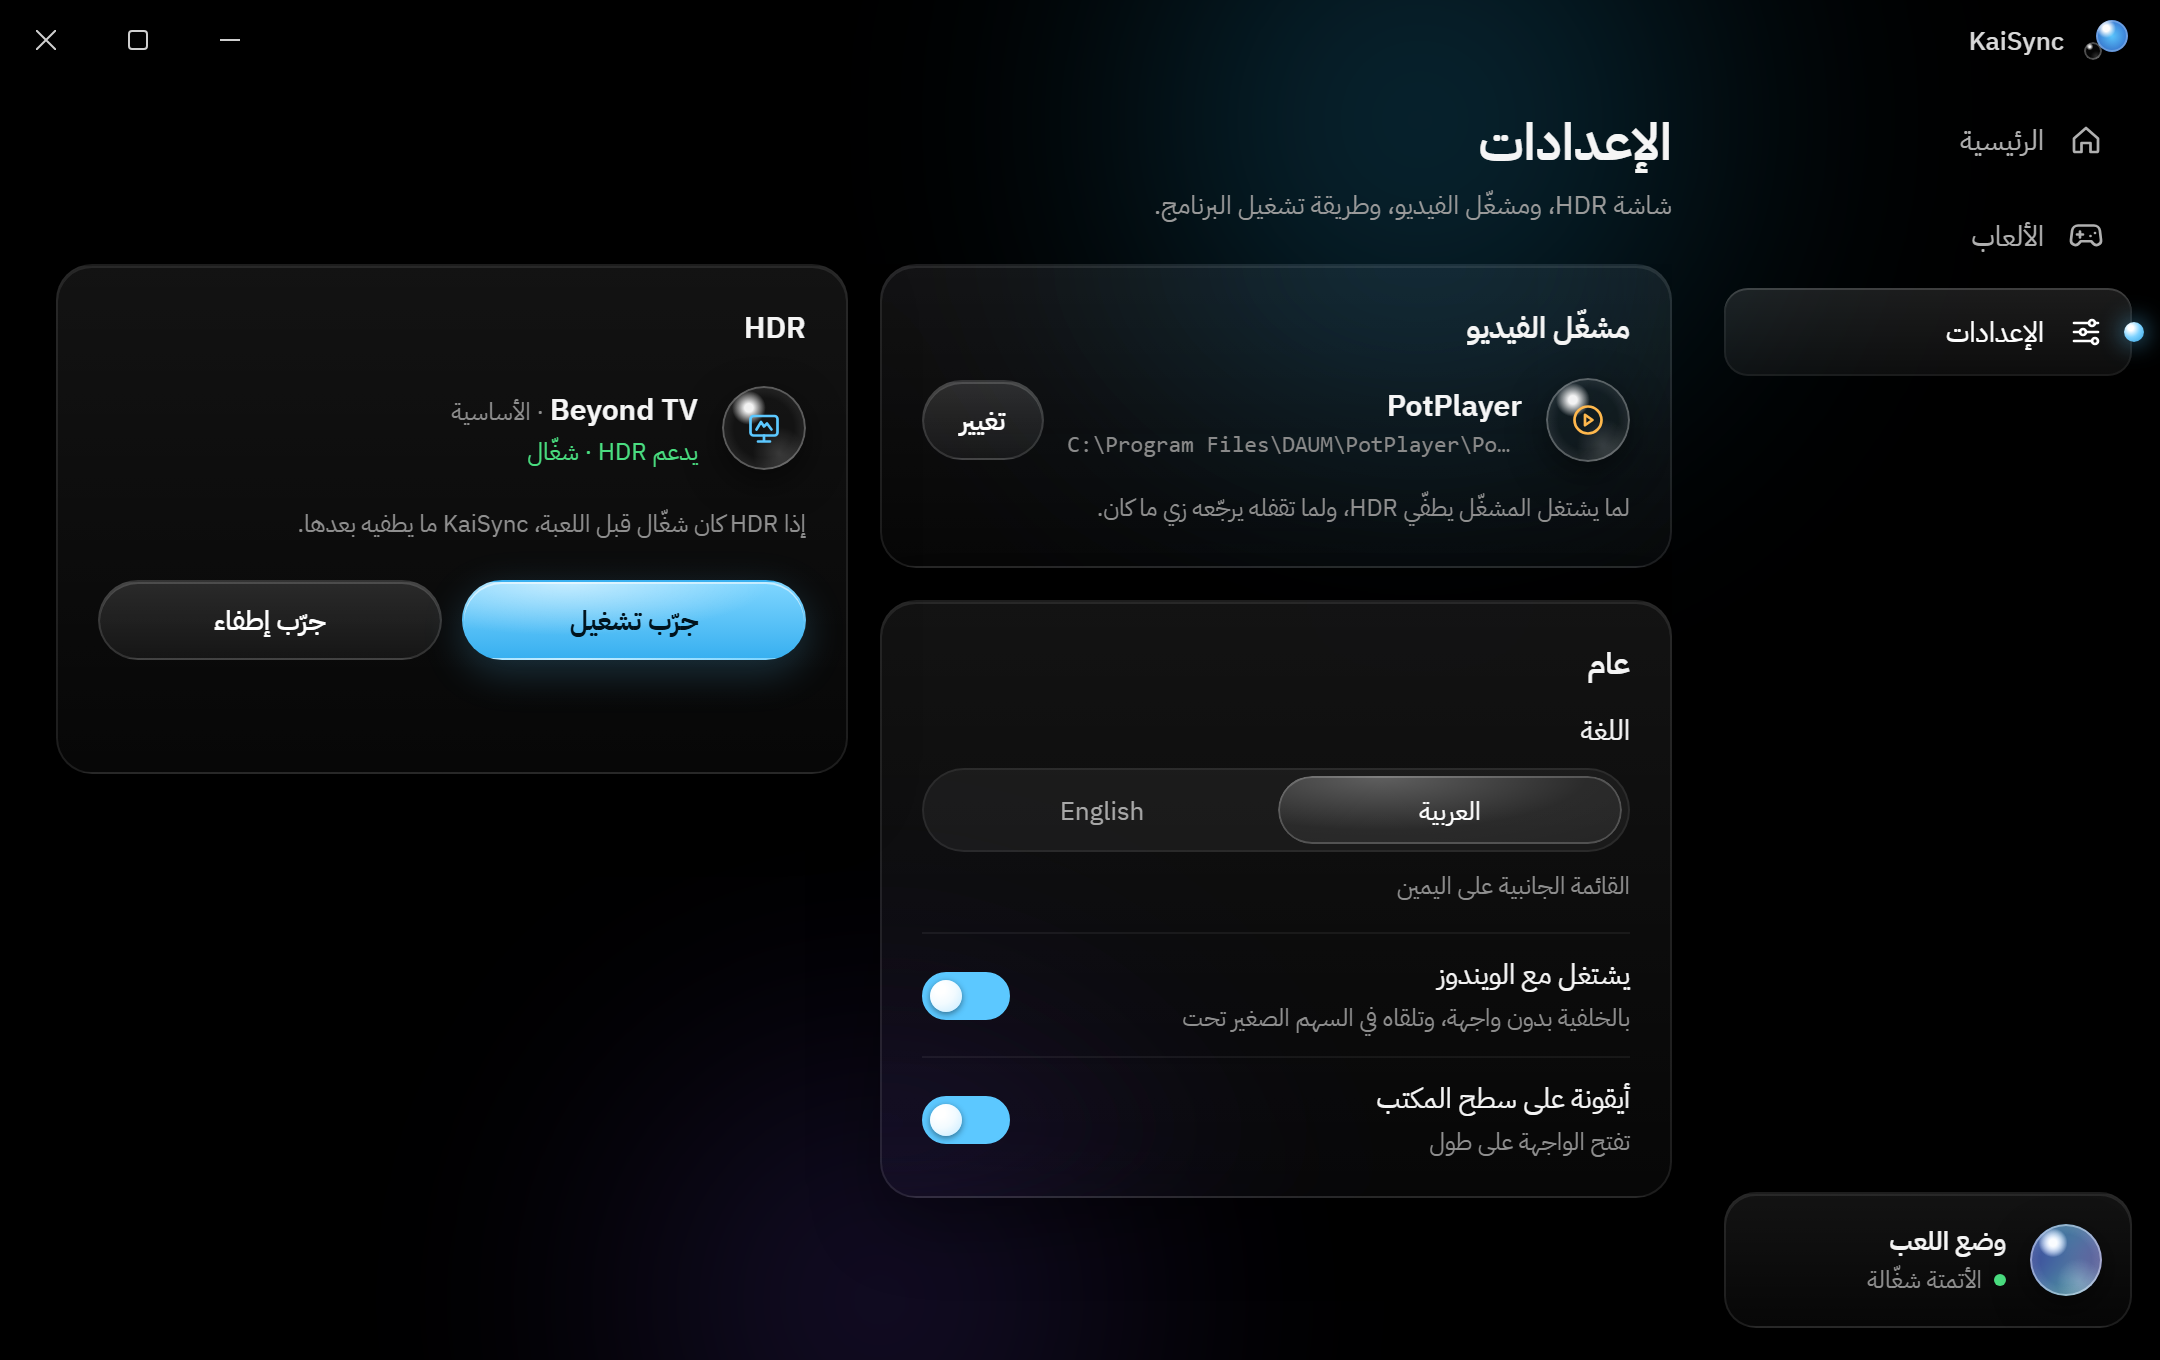
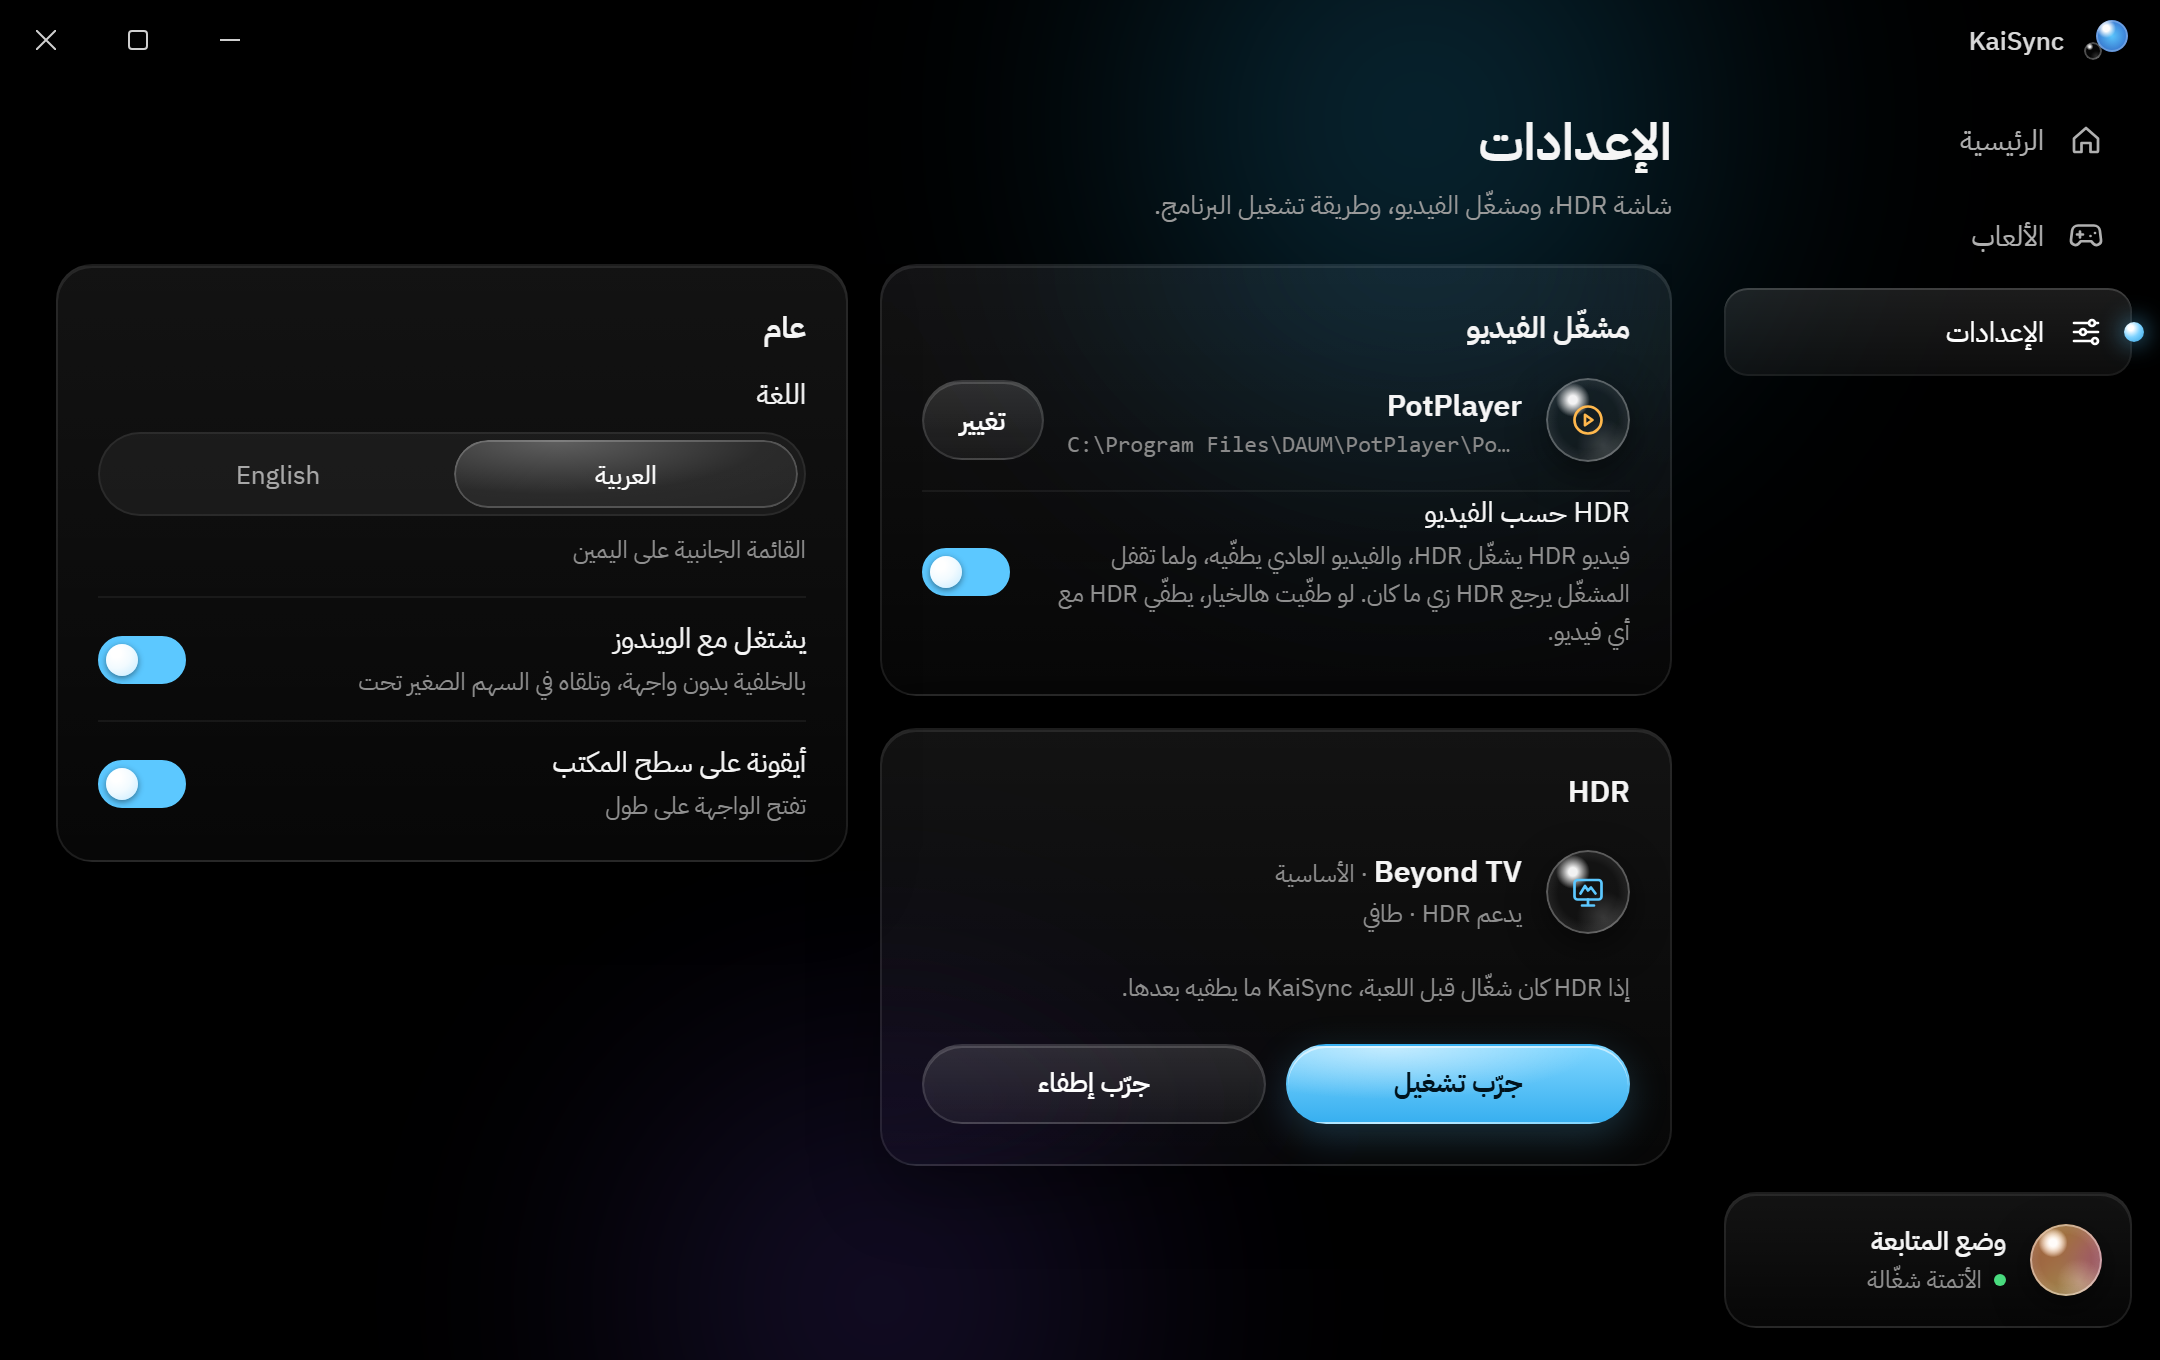
Docs for 1.2.0: English README, refreshed screenshots
- README.md (Arabic) updated for HDR-follows-the-video; README.en.md added,
  each links to the other
- New screenshots in both languages (HDR video, games, settings, tray menu)
- Settings: the player hint is folded into the toggle hint and the test
  message only takes space when shown, so the cards fit in English too

diff --git a/src/screens/Settings.tsx b/src/screens/Settings.tsx
@@ -72,7 +72,6 @@ function PlayerCard() {
         </div>
         <Toggle on={settings?.videoMatchHdr ?? true} labelledBy="opt-matchHdr" onChange={async (on) => setSettings(await api.setGeneral("videoMatchHdr", on))} />
       </div>
-      <p className="lbl" style={{ margin: 0 }}>{t("settings.playerHint")}</p>
     </Glass>
   );
 }
@@ -144,9 +143,11 @@ function HdrCard() {
             <Button variant="pri" disabled={busy} onClick={() => test(true)}>{t("settings.tryOn")}</Button>
             <Button disabled={busy} onClick={() => test(false)}>{t("settings.tryOff")}</Button>
           </div>
-          <span className={`lbl ${s.msg}`} role="status" style={{ color: msg && !msg.ok ? "var(--warn)" : undefined }}>
-            {msg?.text ?? ""}
-          </span>
+          {msg ? (
+            <span className="lbl" role="status" style={{ color: msg.ok ? undefined : "var(--warn)" }}>
+              {msg.text}
+            </span>
+          ) : null}
         </>
       ) : (
         <div className={s.deviceRow}>

diff --git a/README.md b/README.md
@@ -1,23 +1,30 @@
+**العربية** · [English](README.en.md)
+
 # KaiSync
 
-برنامج صغير لويندوز ١١ يشتغل جنب الساعة. يشغّل **HDR** تلقائياً أول ما تفتح لعبة، ويطفّيه لما تتفرج على فيديو في PotPlayer، وبعدها يرجّعه زي ما كان.
+برنامج صغير لويندوز ١١ يشتغل جنب الساعة، ويضبط **HDR** لحاله على حسب اللي شغّال عندك:
+- **لعبة:** يشغّل HDR.
+- **فيديو في PotPlayer:** يشغّله أو يطفّيه على حسب نوع الفيديو.
+- **ولا شي:** يرجّعه زي ما كان.
 
 ![الرئيسية](docs/screenshots/home-ar.png)
 
 | وش شغّال | HDR |
 |---|---|
 | لعبة | يشتغل |
-| مشغّل الفيديو (PotPlayer) | ينطفي |
-| ولا شي | يرجع زي ما كان. KaiSync ما يرجّع إلا اللي غيّره هو |
+| فيديو HDR (HDR10 أو HLG أو Dolby Vision) | يشتغل |
+| فيديو عادي (SDR) | ينطفي |
+| ولا شي | يرجع زي ما كان. KaiSync يرجّع بس اللي غيّره هو |
 
 الأولوية: **لعبة ← فيديو ← ولا شي**. يعني لو فيه لعبة شغّالة وPotPlayer مفتوح، HDR يبقى شغّال.
 
 - **اكتشاف الألعاب:** من Steam و Epic و Xbox، ومن مجلدات الألعاب اللي تضيفها، ومن ملفات exe تضيفها يدوياً. وتقدر تستثني أي لعبة.
-- **مشغّل الفيديو:** يلقى PotPlayer لحاله، وتقدر تختار أي مشغّل ثاني من الإعدادات.
-- **قاعدة الإرجاع:** KaiSync يرجّع بس اللي غيّره هو:
+- **HDR حسب الفيديو:** KaiSync يعرف وش الملف المفتوح في المشغّل، ويقرأ معلومات الألوان من داخل ملفات MKV و MP4. لو ما لقى معلومات، يشوف إذا اسم الملف فيه HDR أو DV. وتقدر تطفي هالخيار من الإعدادات، وقتها يطفّي HDR مع أي فيديو.
+- **مشغّل الفيديو:** يلقى PotPlayer لحاله، وتقدر تختار أي مشغّل ثاني.
+- **قاعدة الإرجاع:**
   - إذا HDR كان شغّال قبل اللعبة، يبقى شغّال بعدها.
   - إذا كان طافي قبل الفيديو، يبقى طافي بعده.
-  - والبرنامج يتذكر هالشي حتى لو انقفل فجأة.
+  - البرنامج يتذكر هالشي حتى لو انقفل فجأة.
 - **ما يحتاج صلاحيات مدير.**
 - **الواجهة:** بالعربي والإنجليزي، والسجلات في `%APPDATA%\KaiSync\logs\`.
 
@@ -29,8 +36,8 @@
 
 | الملف | النسخة |
 |---|---|
-| `KaiSync_1.1.0_x64-setup.exe` | **نسخة التثبيت** (هذي اللي ننصح فيها). تثبّت للمستخدم الحالي بدون صلاحيات مدير، وتضيف البرنامج لقائمة ابدأ، وتقدر تسوي أيقونة على سطح المكتب، وتقدر تحذفه من إعدادات ويندوز |
-| `KaiSync_1.1.0_x64-portable.exe` | **نسخة بورتبل**: ملف واحد يشتغل على طول بدون تثبيت. حطه في المجلد اللي تبيه وشغّله |
+| `KaiSync_1.2.0_x64-setup.exe` | **نسخة التثبيت** (هذي اللي ننصح فيها). تثبّت للمستخدم الحالي بدون صلاحيات مدير، وتضيف البرنامج لقائمة ابدأ، وتقدر تسوي أيقونة على سطح المكتب، وتقدر تحذفه من إعدادات ويندوز |
+| `KaiSync_1.2.0_x64-portable.exe` | **نسخة بورتبل**: ملف واحد يشتغل على طول بدون تثبيت. حطه في المجلد اللي تبيه وشغّله |
 
 - **أول تشغيل:** يسجّل البرنامج نفسه في التشغيل مع الويندوز، فيشتغل بالخلفية بدون نافذة، وتلقاه في السهم الصغير جنب الساعة. وتقدر تطفي هالخيار من الإعدادات.
 - **النسخة البورتبل:** إعداداتها في `%APPDATA%\KaiSync` مثل نسخة التثبيت. لو نقلت الملف لمكان ثاني، شغّله مرة من المكان الجديد عشان يتحدّث مسار التشغيل مع الويندوز.
@@ -38,13 +45,13 @@
 
 ## الواجهة
 
-| الألعاب | الإعدادات |
+| فيديو HDR | الألعاب |
 |---|---|
-| ![الألعاب](docs/screenshots/games-ar.png) | ![الإعدادات](docs/screenshots/settings-ar.png) |
+| ![فيديو HDR](docs/screenshots/home-video-ar.png) | ![الألعاب](docs/screenshots/games-ar.png) |
 
-| وضع المتابعة (English) | قائمة الأيقونة جنب الساعة |
+| الإعدادات | قائمة الأيقونة جنب الساعة |
 |---|---|
-| ![Watching mode in English](docs/screenshots/home-en.png) | ![قائمة الأيقونة](docs/screenshots/tray-ar.png) |
+| ![الإعدادات](docs/screenshots/settings-ar.png) | ![قائمة الأيقونة](docs/screenshots/tray-ar.png) |
 
 ## طريقة الاستخدام
 
@@ -57,8 +64,9 @@
 
 ## ملاحظات
 
-- **متى يشتغل HDR:** أول ما تظهر اللعبة، بدون انتظار. السبب إن ألعاب كثيرة، مثل ألعاب Unreal، تفحص HDR مرة وحدة بس وقت ما تشتغل. أما إطفاؤه فما يصير إلا إذا بقت اللعبة مقفولة ٣ ثواني.
-- **الفيديو:** يطفّي HDR مع أي فيديو في المشغّل، حتى لو كان الفيديو نفسه HDR. ويستنى ٣ ثواني قبل ما يطفّيه، عشان لو فتحت المشغّل وسكّرته بسرعة ما ترمش الشاشة.
+- **متى يشتغل HDR:** أول ما تظهر اللعبة أو يبدأ فيديو HDR، بدون انتظار. السبب إن ألعاب كثيرة، مثل ألعاب Unreal، والمشغّلات بعد، تفحص HDR مرة وحدة بس وقت ما تبدأ. أما إطفاؤه فما يصير إلا إذا بقت الحالة ٣ ثواني.
+- **لو المشغّل ما حسّ بـ HDR:** اقفل الفيديو وافتحه مرة ثانية.
+- **ملف HDR بدون معلومات:** إذا ما فيه معلومات ألوان، واسمه ما فيه HDR ولا DV، KaiSync بيعتبره فيديو عادي.
 - **ويندوز ١١ نسخة 24H2 وأحدث:** يستخدم `GET_ADVANCED_COLOR_INFO_2` / `SET_HDR_STATE`. والنسخ الأقدم تستخدم الطريقة القديمة.
 - **برامج مطفية من البداية:** Wallpaper Engine و Lossless Scaling من Steam، لأنها تشتغل طول الوقت أو مع الألعاب. وتقدر تفعّلها من صفحة الألعاب.
 - **مبني بـ:** Tauri 2 (Rust) و React 19.

diff --git a/README.en.md b/README.en.md
@@ -1,0 +1,66 @@
+[العربية](README.md) · **English**
+
+# KaiSync
+
+A small Windows 11 tray app that sets **HDR** for you based on what's running: on for games, on or off for videos in PotPlayer depending on the video, and back to how it was when nothing is running.
+
+![Home](docs/screenshots/home-en.png)
+
+| What's running | HDR |
+|---|---|
+| A game | On |
+| An HDR video (HDR10, HLG, Dolby Vision) | On |
+| An SDR video | Off |
+| Nothing | Back as it was. KaiSync only undoes what it changed |
+
+Priority: **game → video → nothing**. If a game is running while PotPlayer is open, HDR stays on.
+
+- **Game detection:** Steam, Epic and Xbox, plus game folders you add (each subfolder is one game; KaiSync picks its exe) and any exe you add yourself. You can exclude any game.
+- **HDR follows the video:** KaiSync finds the file open in the player and reads its colour metadata (MKV and MP4). If there is none, it checks the file name for HDR or DV. Turn this off in Settings and every video turns HDR off.
+- **Video player:** PotPlayer is found automatically; you can pick any other player.
+- **Restore rule:** if HDR was already on before a game, it stays on afterwards; if it was already off before a video, it stays off afterwards. KaiSync remembers this even if it's closed unexpectedly.
+- **No admin rights needed.**
+- **Interface** in English and Arabic. Logs: `%APPDATA%\KaiSync\logs\`.
+
+---
+
+## Download
+
+Get the latest version from [Releases](https://github.com/kai39x/KaiSync/releases/latest):
+
+| File | Version |
+|---|---|
+| `KaiSync_1.2.0_x64-setup.exe` | **Installer** (recommended). Installs for the current user without admin rights, adds a Start menu entry, offers a desktop icon, and can be uninstalled from Windows Settings |
+| `KaiSync_1.2.0_x64-portable.exe` | **Portable**: a single file that runs without installing. Put it in any folder and run it |
+
+- **First run:** KaiSync registers itself to start with Windows, so it runs in the background with no window. You'll find it under the small arrow next to the clock. You can turn this off in Settings.
+- **Portable copy:** it keeps its settings in `%APPDATA%\KaiSync`, same as the installed one. If you move the file, run it once from the new place so the start-with-Windows path is updated.
+- **SmartScreen warning:** Windows may show one because the files aren't signed. Click "More info", then "Run anyway".
+
+## Screenshots
+
+| Games | Settings |
+|---|---|
+| ![Games](docs/screenshots/games-en.png) | ![Settings](docs/screenshots/settings-en.png) |
+
+| Tray menu | Arabic |
+|---|---|
+| ![Tray menu](docs/screenshots/tray-en.png) | ![Arabic](docs/screenshots/home-ar.png) |
+
+## How to use it
+
+- **Left-click the tray icon:** opens the window.
+- **Right-click the tray icon:** opens the menu (Open KaiSync, Pause, Exit).
+- **The window's × button:** only hides the window; KaiSync keeps running in the tray.
+- **Pause:** stops all automation and doesn't touch HDR. When you resume, KaiSync checks again right away.
+- **Exit:** puts HDR back according to the restore rule, then quits.
+- **Opening KaiSync while it's already running** (shortcut or Start menu): shows the existing window instead of starting a second copy.
+
+## Notes
+
+- **When HDR turns on:** the moment a game appears or an HDR video starts, with no waiting. Many games (for example Unreal games) and video renderers only check for HDR once, when they start. Turning HDR off waits until the state has held for 3 seconds.
+- **If the player doesn't pick up HDR:** close the video and open it again.
+- **HDR files with no metadata:** a file with no colour metadata and no HDR or DV in its name is treated as SDR.
+- **Windows 11 24H2 and later:** KaiSync uses `GET_ADVANCED_COLOR_INFO_2` / `SET_HDR_STATE`. Older builds use the older advanced-colour API.
+- **Off by default:** Wallpaper Engine and Lossless Scaling (Steam), because they run all the time or alongside games. You can turn them on in the Games page.
+- **Built with** Tauri 2 (Rust) and React 19.
